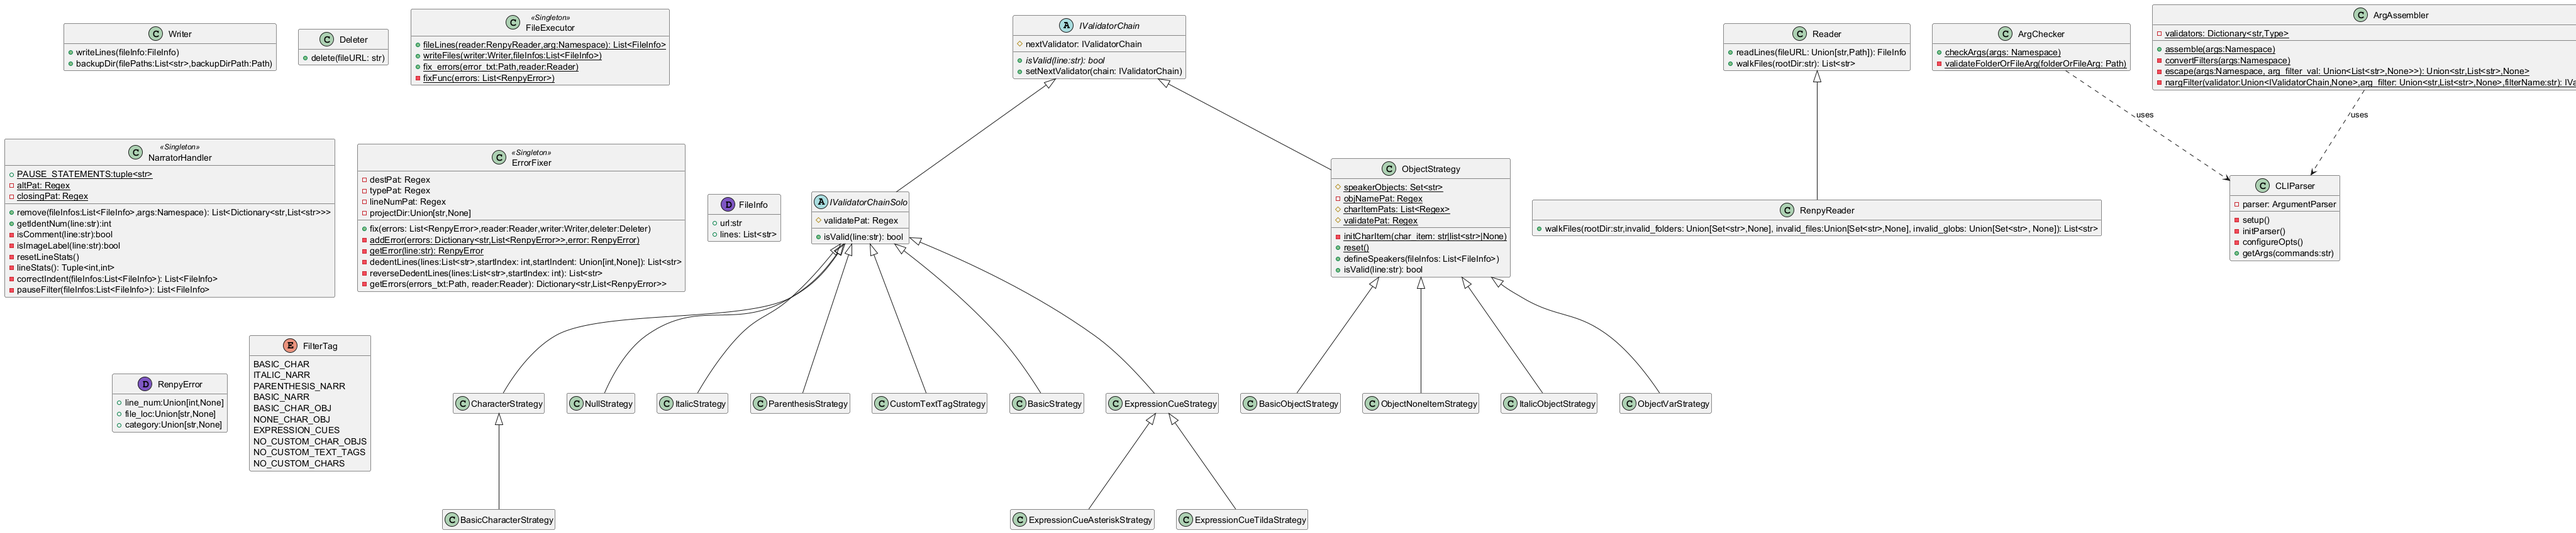
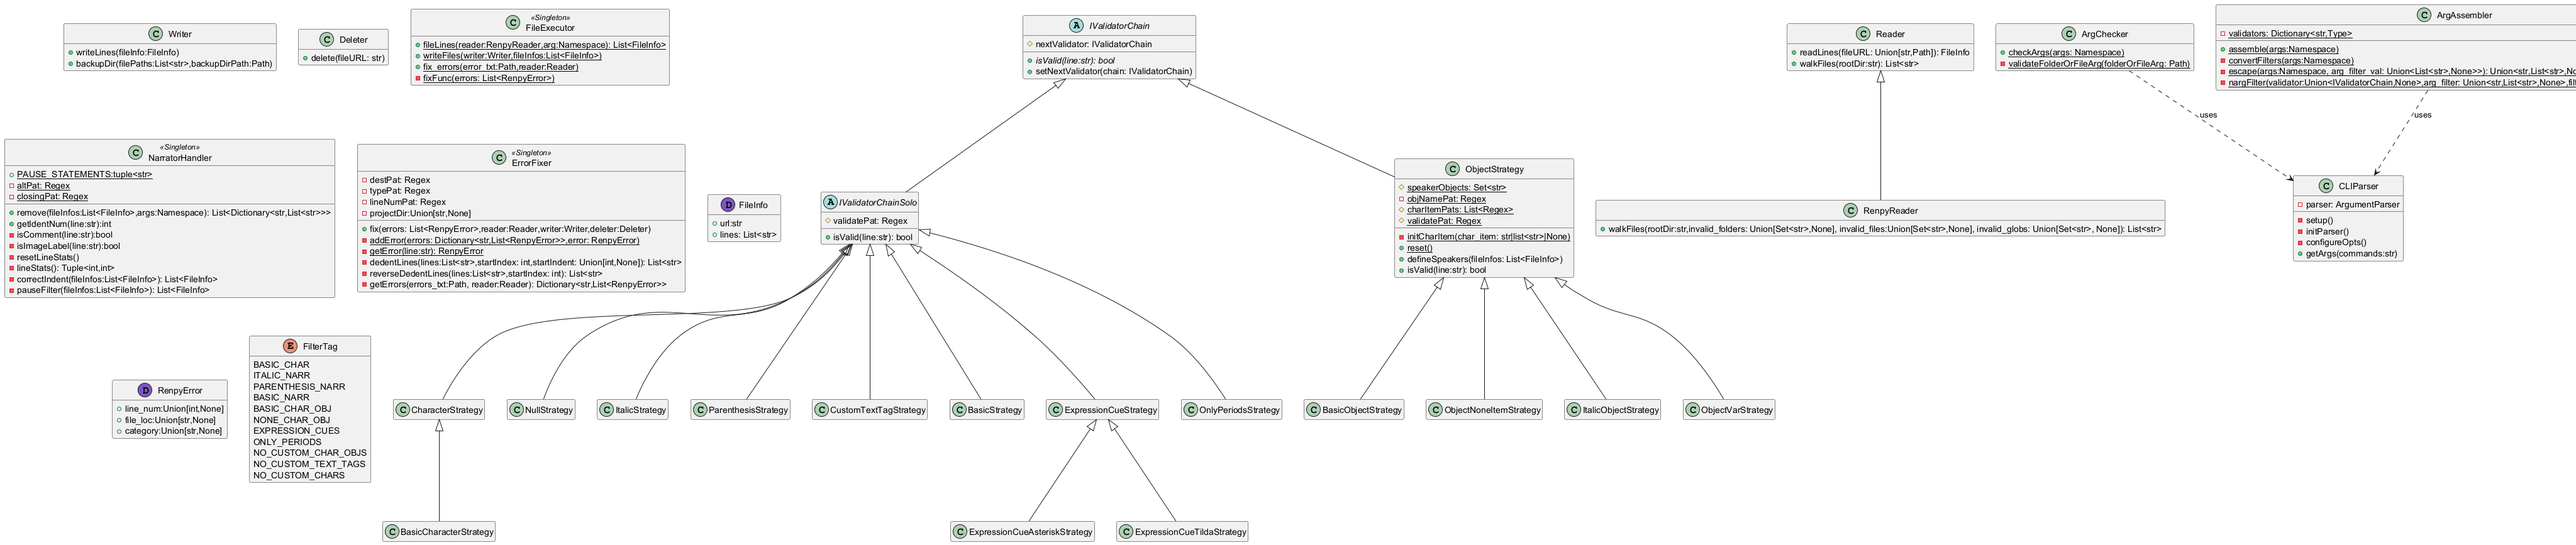
New default filter: OnlyPeriods. Erases dialogue with only periods. - Update tests - Update class diagram - Update COMMANDS.md

diff --git a/tests/arg/test_arg_assembler.py b/tests/arg/test_arg_assembler.py
@@ -8,7 +8,7 @@ from lib.custom_types import FilterTag
 from lib.validator.speaker import ObjectNoneItemStrategy, ObjectStrategy, CharacterStrategy, BasicObjectStrategy, \
     ItalicObjectStrategy, ObjectVarStrategy
 from lib.validator.dialogue import CustomTextTagStrategy, ParenthesisStrategy, ExpressionCueAsteriskStrategy, \
-    ExpressionCueTildaStrategy, ItalicStrategy
+    ExpressionCueTildaStrategy, ItalicStrategy, OnlyPeriodsStrategy
 
 
 class TestArgAssembler(unittest.TestCase):
@@ -46,7 +46,7 @@ class TestArgAssembler(unittest.TestCase):
             FilterTag.BASIC_NARR.value,
         ]
         self.start(args, {NullStrategy, ObjectNoneItemStrategy, ParenthesisStrategy, BasicObjectStrategy,
-                          ExpressionCueAsteriskStrategy,ExpressionCueTildaStrategy})
+                          ExpressionCueAsteriskStrategy,ExpressionCueTildaStrategy, OnlyPeriodsStrategy})
 
     def test_nargs(self):
         args = [
@@ -57,6 +57,7 @@ class TestArgAssembler(unittest.TestCase):
             FilterTag.BASIC_CHAR_OBJ.value,
             FilterTag.BASIC_NARR.value,
             FilterTag.EXPRESSION_CUES.value,
+            FilterTag.ONLY_PERIODS.value,
             FilterTag.NO_CUSTOM_CHARS.value,
             "ten",
             "narrator",
@@ -86,6 +87,7 @@ class TestArgAssembler(unittest.TestCase):
             FilterTag.BASIC_NARR.value,
             FilterTag.NONE_CHAR_OBJ.value,
             FilterTag.EXPRESSION_CUES.value,
+            FilterTag.ONLY_PERIODS.value,
             "--regex",
             FilterTag.NO_CUSTOM_CHARS.value,
             "ten{3}",
@@ -106,6 +108,7 @@ class TestArgAssembler(unittest.TestCase):
             FilterTag.BASIC_NARR.value,
             FilterTag.NONE_CHAR_OBJ.value,
             FilterTag.EXPRESSION_CUES.value,
+            FilterTag.ONLY_PERIODS.value,
             FilterTag.NO_CUSTOM_CHARS.value,
             "ten{3}",
             "seco.+",
@@ -124,6 +127,7 @@ class TestArgAssembler(unittest.TestCase):
             FilterTag.BASIC_CHAR_OBJ.value,
             FilterTag.BASIC_NARR.value,
             FilterTag.NONE_CHAR_OBJ.value,
+            FilterTag.ONLY_PERIODS.value,
         ]
         self.start(
             args, {NullStrategy, ItalicStrategy,ItalicObjectStrategy,ExpressionCueTildaStrategy,ExpressionCueAsteriskStrategy}

diff --git a/tests/validator/test_dialogue.py b/tests/validator/test_dialogue.py
@@ -5,7 +5,8 @@ from lib.validator.dialogue import (
     CustomTextTagStrategy,
     BasicStrategy,
     ExpressionCueTildaStrategy,
-    ExpressionCueAsteriskStrategy
+    ExpressionCueAsteriskStrategy,
+    OnlyPeriodsStrategy
 )
 from lib.validator.ivalidator_chain import IValidatorChain
 from tests.fixture import get_dialogue_list
@@ -269,6 +270,11 @@ class TestDialogue(unittest.TestCase):
             # Parentheses
             242: 'mc "(Whenever you are ready! Okay?"',
             243: 'mc "\\(This is going to be difficult to explain.\\)"',
+            # Only Periods
+            244: 'mc "................."',
+            245: 'mc "................." with vpunch',
+            246: 'mc "{tag}...............{/tag}"',
+            247: 'mc "{tag}...............{/tag}" with vpunch',
         }
 
     def validate_lines(self):
@@ -291,7 +297,7 @@ class TestDialogue(unittest.TestCase):
     def test_parenthesis(self):
         self.start(ParenthesisStrategy(),
                    [12, 13, 14, 15, 16, 17, 18, 24, 25, 26, 27, 28, 29, 30, 206, 207, 208, 209, 211, 213, 215, 217, 230,
-                    231, 235, 240, 241, 242,243])
+                    231, 235, 240, 241, 242, 243])
 
     def test_italic(self):
         self.start(ItalicStrategy(),
@@ -312,3 +318,6 @@ class TestDialogue(unittest.TestCase):
     def test_cues_tilda(self):
         self.start(ExpressionCueTildaStrategy(),
                    [173, 174, 175, 176, 178, 185, 186, 187, 188, 190, 219, 221, 226, 227, 233, 237])
+
+    def test_only_periods(self):
+        self.start(OnlyPeriodsStrategy(), [244, 245, 246, 247])

diff --git a/src/lib/arg/arg_assembler.py b/src/lib/arg/arg_assembler.py
@@ -2,7 +2,7 @@ import re
 from argparse import Namespace
 from typing import final
 from lib.validator.dialogue import ParenthesisStrategy, ItalicStrategy, BasicStrategy, CustomTextTagStrategy, \
-    ExpressionCueTildaStrategy, ExpressionCueAsteriskStrategy
+    ExpressionCueTildaStrategy, ExpressionCueAsteriskStrategy, OnlyPeriodsStrategy
 
 from lib.validator.null_strategy import NullStrategy
 from lib.validator.speaker import (
@@ -31,7 +31,8 @@ class ArgAssembler:
         FilterTag.NO_CUSTOM_CHARS.value: CharacterStrategy,
         FilterTag.NO_CUSTOM_CHAR_OBJS.value: ObjectStrategy,
         FilterTag.EXPRESSION_CUES.value: [ExpressionCueAsteriskStrategy, ExpressionCueTildaStrategy],
-        FilterTag.NO_CUSTOM_CHAR_VAR_OBJS.value: ObjectVarStrategy
+        FilterTag.NO_CUSTOM_CHAR_VAR_OBJS.value: ObjectVarStrategy,
+        FilterTag.ONLY_PERIODS.value: OnlyPeriodsStrategy,
     }
 
     @classmethod

diff --git a/src/lib/validator/dialogue/only_periods_strategy.py b/src/lib/validator/dialogue/only_periods_strategy.py
@@ -1,0 +1,17 @@
+import re
+from ..ivalidator_chain_solo import IValidatorChainSolo
+
+
+class OnlyPeriodsStrategy(IValidatorChainSolo):
+    """Validator that checks if dialogue only consists of periods.
+
+    Dialogue with only periods is a form of silent narration or signify a pause.
+
+    Example:
+        mc "............."
+        mc "{tag}........................{/tag}"
+    """
+
+    def __init__(self, next_validator: "IValidatorChainSolo | None" = None) -> None:
+        super().__init__(next_validator)
+        self._validate_pat = re.compile(r'^[^=]+([\'"])(?:{\w+(?:=[^}]+)?})*\.+(?:{/\w+})*\s*(?:\1|\1\s*with .+)?$')

diff --git a/src/lib/validator/dialogue/__init__.py b/src/lib/validator/dialogue/__init__.py
@@ -4,6 +4,7 @@ from .italic_strategy import ItalicStrategy
 from .parenthesis_strategy import ParenthesisStrategy
 from .expression_cue_tilda_strategy import ExpressionCueTildaStrategy
 from .expression_cue_asterisk_strategy import ExpressionCueAsteriskStrategy
+from .only_periods_strategy import OnlyPeriodsStrategy
 
 __all__ = [
     "BasicStrategy",
@@ -11,5 +12,6 @@ __all__ = [
     "ItalicStrategy",
     "ParenthesisStrategy",
     "ExpressionCueTildaStrategy",
-    "ExpressionCueAsteriskStrategy"
+    "ExpressionCueAsteriskStrategy",
+    "OnlyPeriodsStrategy"
 ]

diff --git a/src/lib/arg/cli_parser.py b/src/lib/arg/cli_parser.py
@@ -140,6 +140,7 @@ class CLIParser:
             FilterTag.BASIC_CHAR.value: "Keep [default narrators] not saved to a Character object",
             FilterTag.NONE_CHAR_OBJ.value: "Keep empty Character objects.",
             FilterTag.EXPRESSION_CUES.value: "Keep expression cues. Ex: *smiles*, ~raises eyebrows~.",
+            FilterTag.ONLY_PERIODS.value: "Keeps dialogue containing only periods. Ex: '......'",
         }
         self.__add_no_filters(no_filters)
         self.__add_filter_arg(

diff --git a/src/lib/custom_types.py b/src/lib/custom_types.py
@@ -10,6 +10,7 @@ class FilterTag(Enum):
     BASIC_CHAR = "--basic-char"
     NONE_CHAR_OBJ = "--none-char-obj"
     EXPRESSION_CUES = "--cues"
+    ONLY_PERIODS = "--periods"
     NO_CUSTOM_TEXT_TAGS = "--no-custom-tags"
     NO_CUSTOM_CHARS = "--no-custom-chars"
     NO_CUSTOM_CHAR_OBJS = "--no-custom-char-objs"

diff --git a/COMMANDS.md b/COMMANDS.md
@@ -260,6 +260,7 @@ These filters deal with the **dialogue** portion of dialogue box.
 | --parenthesis-narr      | mc “(It’s got to be here somewhere.)” <br>mc "{tag}(Opens the car door){/tag}"       | `()`. Thinking/Narrator dialogue                                                                             |
 | --no-custom-tags, --nct | mc “{fzs}A small bold font tag.{/fzs}” <br>mc "{fzs=10}My text is here{/fzs}"        | [Custom text tag.](https://www.renpy.org/doc/html/custom_text_tags.html) Can be used for thoughts/narrative. |
 | --cues                  | mc "\**blushes softly*\*" <br>mc "{tag}\~*jumps*\~{/tag}"                            | Expression cues. \**smiles*\*, \~yawns\~, \*\**taps foot*\*\*                                                |
+| --periods               | mc "......" <br>mc "{tag}..........{/tag}"                                           | Periods only dialogue                                                                                        |
 
 ***—basic-narr***
 
@@ -320,6 +321,12 @@ Expression cue examples:
 - \*laughs maniacally\*
 - \*\*rubs shoulder\*\*
 - \*\*eats slowly\*\*
+
+**--periods**
+
+Keeps period only dialogue.
+
+By default, dialogue consisting of only periods are removed. To keep them, use this option.
 
 - - -
 
